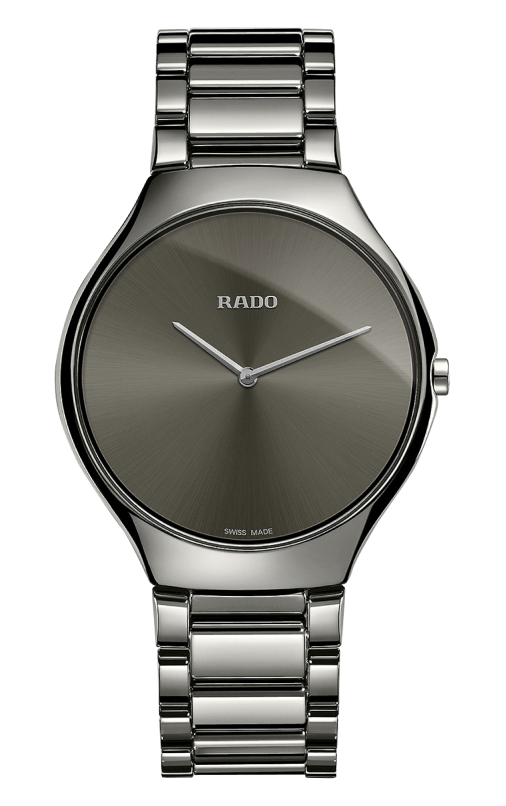
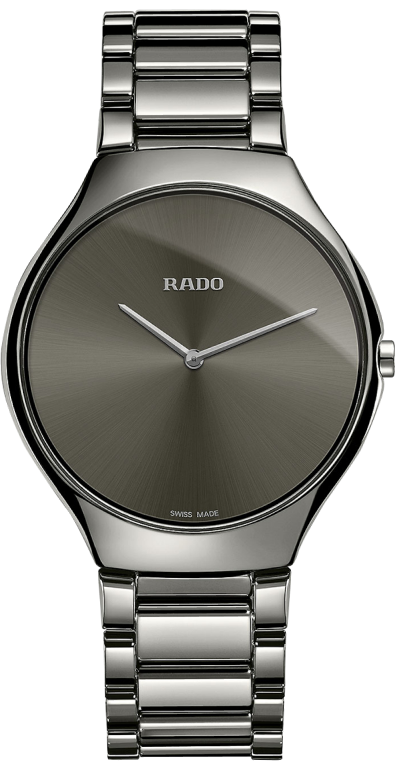
correct section promo

diff --git a/css/style.css b/css/style.css
@@ -325,62 +325,37 @@ header {
 /* section promo */
 .promo {
   position: relative;
-  background-color: #fdfdfb;
-  background-image: url("../img/promo_bg.png");
+
+  background-image: url('../img/promo_bg.png');
   background-size: cover;
   background-repeat: no-repeat;
+  background-color: #FDFDFB;
+  background-position-x: -20px;
 }
-
+ 
 .promo .container {
   display: flex;
   justify-content: space-between;
   flex-wrap: wrap;
 }
 
-.promo-text {
-  max-width: 410px;
-  flex-shrink: 0;
-  margin: 0 8px;
-  padding-left: 60px;
-  padding-top: 115px;
-}
-
-
-.promo-list {
-  display: flex;
-  flex-wrap: wrap;
-  justify-content: space-evenly;
-  max-width: 350px;
-}
-
-.promo-list-item {
-  margin: 10px auto;
-}
-
-.promo-list li:first-child {
-  margin-left: 0;
-}
-
-.promo-link {
-  padding: 14px 22px;
-  border-radius: 5px;
-}
-
-.promo-link .btn {
-  box-shadow: 0px 22px 40px rgba(255, 104, 56, 0.19);
-  border-radius: 5px;
-}
-
 .promo-img {
+  max-width: 700px;
+  height: auto;
+
   display: flex;
   justify-content: space-between;
+
   position: relative;
-  max-width: 670px;
-  height: auto;
+
   margin: 0 8px;
-  /* background-image: url('../img/promo_watch.png');
+
+  /* background-image: url('../img/promo_bg.png');
   background-size: cover;
-  background-repeat: no-repeat; */
+  background-repeat: no-repeat;
+  background-color: #FDFDFB; */
+
+  z-index: 0;
 }
 
 .promo-img__price,.promo-img__dimensions {
@@ -389,10 +364,14 @@ header {
   font-size: 16px;
   line-height: 22px;
   text-align: center;
+
+  z-index: 2;
 }
 
 .promo-img__price {
-  position: absolute;
+  /* position: absolute; */
+  padding-top: 18%;
+
   align-self: flex-start;
 }
 
@@ -418,15 +397,20 @@ header {
 .promo-img__watch {
   /* position: absolute; */
   max-width: 100%;
+  height: auto;
   /* left: 10px; */
   flex-shrink: 0;
+  z-index: 1;
 }
 
 .promo-img__dimensions {
-  top: 77px;
+  /* top: 77px;
   position: absolute;
   bottom: 208px;
-  left: 381px;
+  left: 381px; */
+  padding-bottom: 15%;
+  
+  align-self: flex-end;
 }
 
 .promo-img__size {
@@ -443,8 +427,23 @@ header {
   background-image: url('../img/svg/line.svg');
 }
 
+.promo-text {
+  max-width: 410px;
+
+  flex-shrink: 0;
+
+  margin: 0 8px;
+  padding-left: 60px;
+  padding-top: 160px;
+
+  z-index: 2;
+}
+
 .promo-text__heading {
   position: relative;
+
+  margin-bottom: 27px;
+
   font-family: "Playfair Display";
   font-style: normal;
   font-weight: normal;
@@ -460,4 +459,58 @@ header {
   width: 50px;
   height: 2px;
   background-image: url('../img/svg/line.svg');
+}
+
+.promo-text__title {
+  margin-bottom: 40px;
+
+  font-family: "Playfair Display";
+  font-style: normal;
+  font-weight: normal;
+  font-size: 30px;
+  line-height: 40px;
+}
+
+.promo-text__description {
+  width: 260px;
+
+  margin-bottom: 40px;
+
+  font-family: "Roboto";
+  font-style: normal;
+  font-weight: 300;
+  font-size: 14px;
+  line-height: 21px;
+
+  color: rgba(27, 26, 23, 0.82);
+}
+
+.promo-link {
+  margin: 0;
+
+  /* margin-bottom: 238px; */
+
+  text-align: center;
+}
+
+.btn-link {
+  width: 205px;
+  height: 64px;
+
+  font-family: "Roboto";
+  font-style: normal;
+  font-weight: 500;
+  font-size: 12px;
+  line-height: 64px;
+  letter-spacing: 0.05em;
+  text-transform: uppercase;
+  color: #FFFFFF;
+}
+
+.btn-link__black {
+  background: #444240;
+}
+
+.btn-link__brown {
+  background: #D4B098;
 }

diff --git a/index.html b/index.html
@@ -109,9 +109,9 @@
                     <div class="promo-text">
                         <h2 class="promo-text__heading">Весна/Лето 2019</h2>
                         <p class="promo-text__title">Коллекция</p>
-                        <p class="promo-text__describe">Швейцарские часы в наличии в Москве
+                        <p class="promo-text__description">Швейцарские часы в наличии в Москве </br>
                             и с доставкой по всему миру</p>
-                        <a class="" href="#">Смотреть каталог</a>
+                        <a class="promo-link btn-link btn-link__black" href="#">Смотреть каталог</a>
                     </div> 
                     <div class="promo-img">
                         <p class="promo-img__price">22000 
@@ -119,7 +119,7 @@
                                  &#8381; 
                             </span>
                         </p>
-                        <img class="promo-img__watch" src="img/promo_watch.png" width="506" height="806" alt="watches">
+                        <img class="promo-img__watch" src="../Conquest/img/promo_watch.png" width="395" height="768" alt="watches">
                         <p class="promo-img__dimensions">
                             <span class="promo-img__size">
                                 28 мм диаметр
